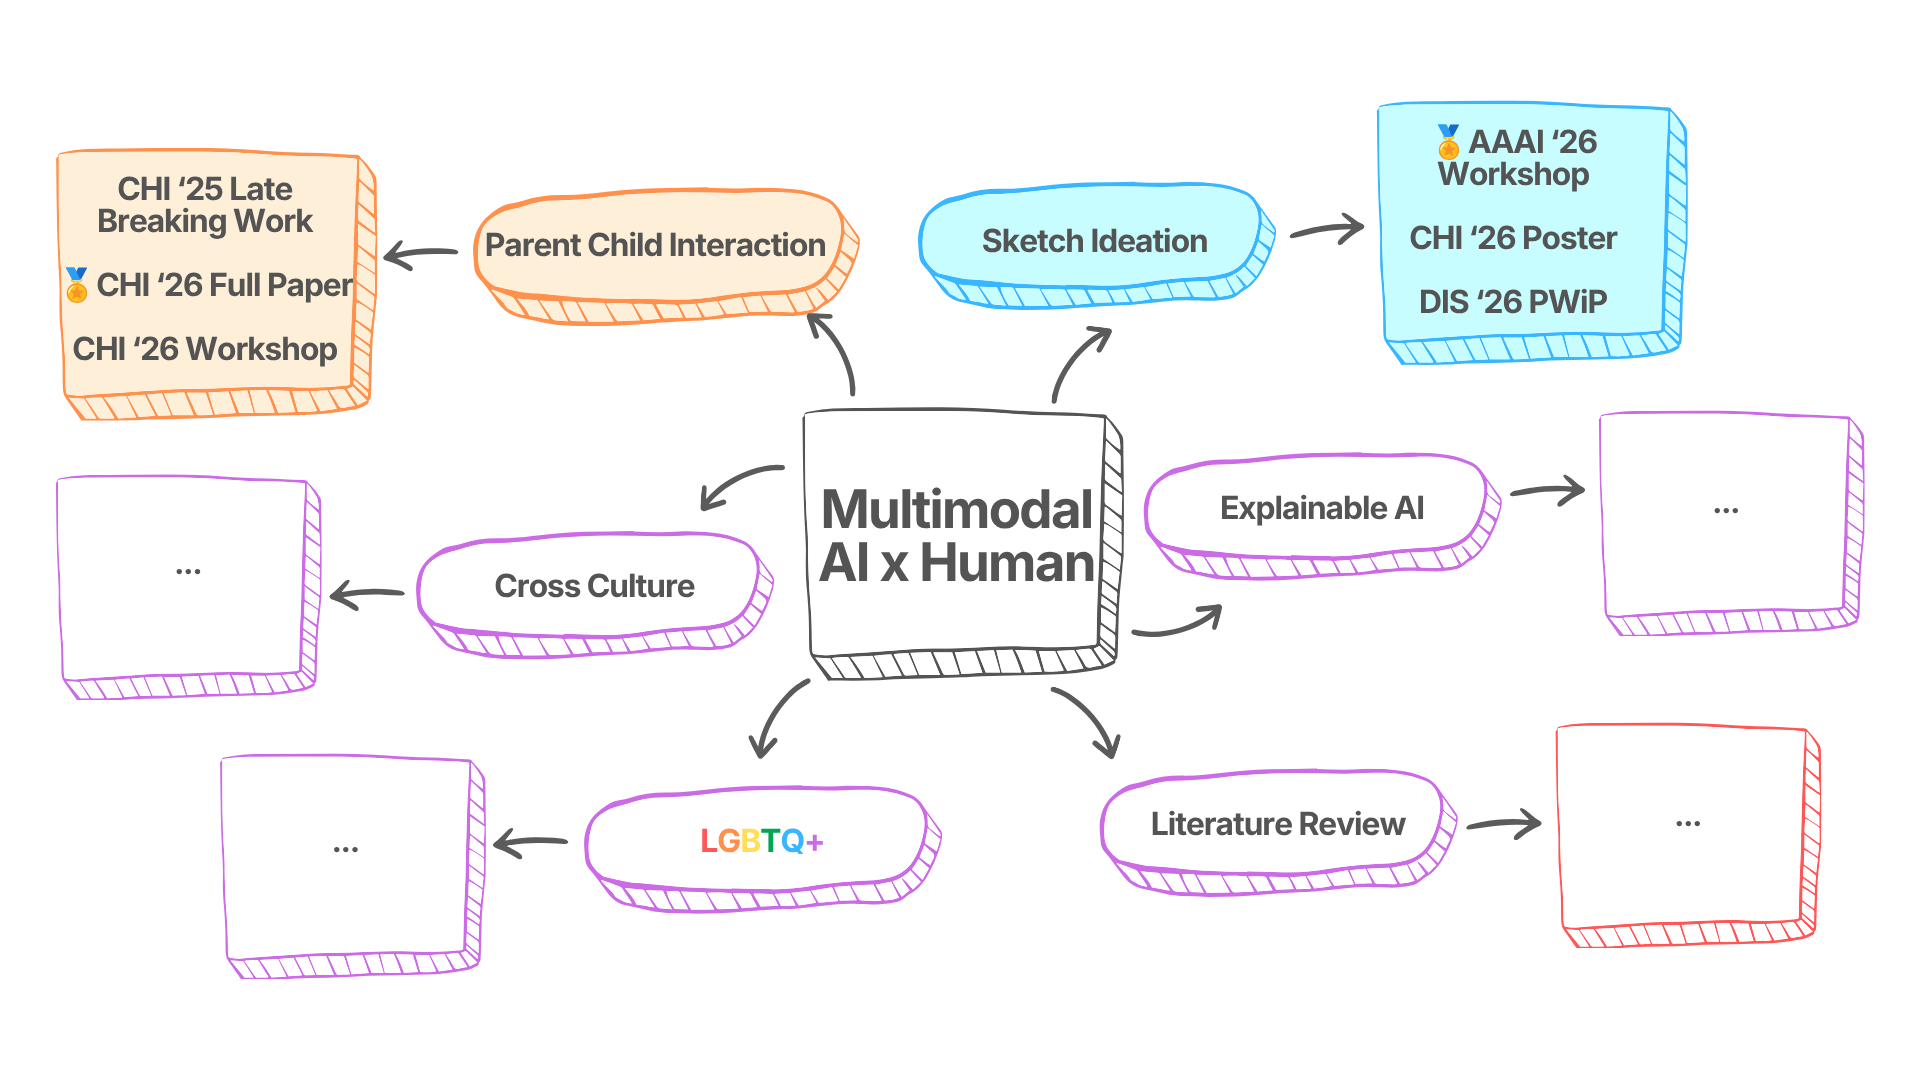
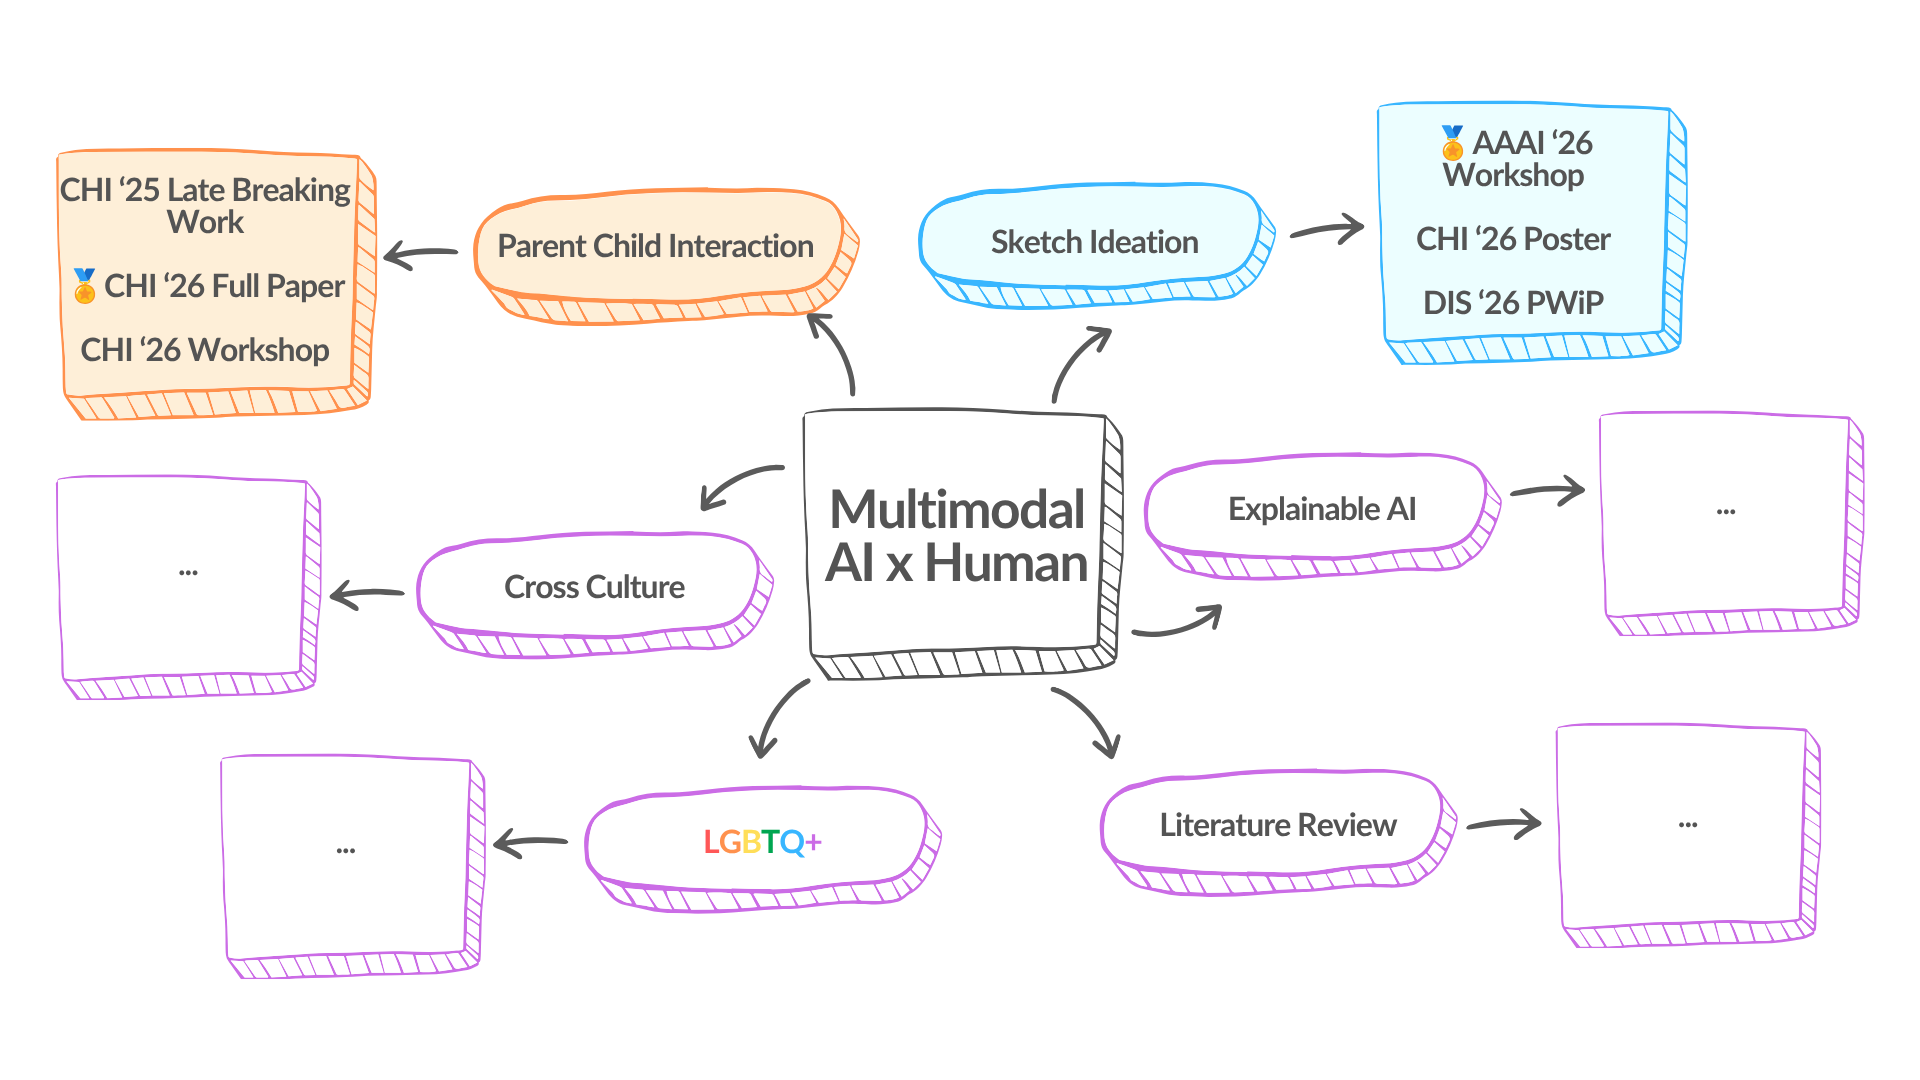
add

diff --git a/styles.css b/styles.css
@@ -313,6 +313,17 @@ nav a {
     width: 120px;
     margin-bottom: 15px;
   }
+
+  .publication-wrapper {
+    flex-direction: column;
+  }
+
+  .conf-logo {
+    width: 100%;
+    max-width: 300px;
+    margin-bottom: 10px;
+    align-self: center;
+  }
 }
 
 .papertitle {